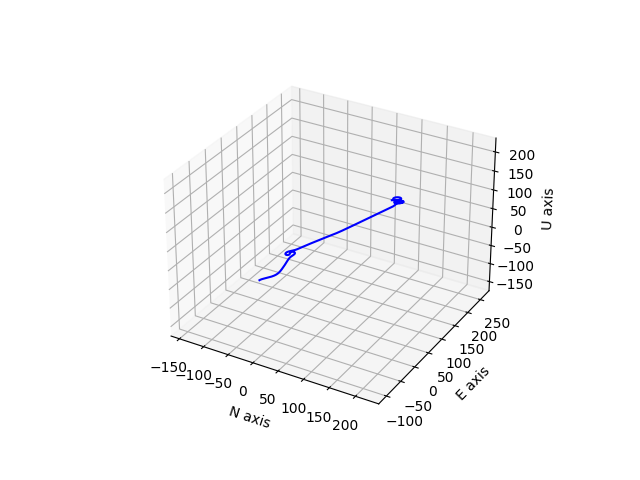
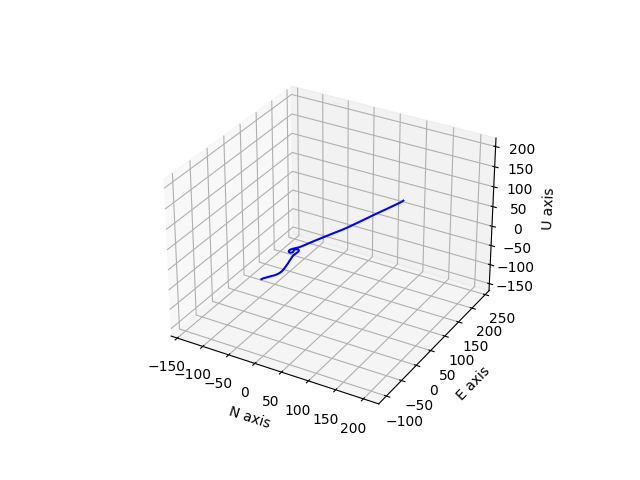
doc

diff --git a/src/solve_glider_opty_4d_trip.py b/src/solve_glider_opty_4d_trip.py
@@ -83,8 +83,9 @@ def obj_grad_cc(free, _p):
     return grad
 
 
-def test_cc(force_recompute=False, filename='/home/poine/tmp/glider_opty_4d_cc1.npz'):
-     atm = go_u.atm4()
+def test_cc(force_recompute=False, filename='/home/poine/tmp/glider_opty_4d_cc{}.npz', exp='0'):
+     if exp == '0': atm = go_u.atm4(strengths=(-0.6, -1.4, -0.8, -1.9))
+     else: atm = go_u.atm4(strengths=(-0.6, -1.4, -0.8, -0.6))
      _p = sgo4d.Planner(_obj_fun=obj_cc, _obj_grad=obj_grad_cc,
                         _atm=atm, e0=-100, n0=0, u0=25, psi0=0,
                         _v_constraint = (7., 15.),
@@ -93,14 +94,16 @@ def test_cc(force_recompute=False, filename='/home/poine/tmp/glider_opty_4d_cc1.
                         _u_constraint = (   23, 100),
                         duration=60, hz=20.)
      #sgo4d.compute_or_load(atm, _p, force_recompute, filename, tol=1e-5, max_iter=2000, initial_guess=None)
-     sgo4d.compute_or_load(atm, _p, force_recompute, filename, tol=1e-4, max_iter=1500, initial_guess=None)
-     go_u.plot_solution_chronogram(_p); plt.savefig('plots/glider_4d_cc1_chrono.png')
-     go_u.plot_solution_2D_en(_p); plt.savefig('plots/glider_4d_cc1_en.png')
-     go_u.plot_solution_3D(_p); plt.savefig('plots/glider_4d_cc1_3D.png')
+     sgo4d.compute_or_load(atm, _p, force_recompute, filename.format(exp), tol=1e-4, max_iter=1500, initial_guess=None)
+     dists_to_wp = np.linalg.norm(np.vstack((_p.sol_e, _p.sol_n)).T - [ccg_e, ccg_n], axis=1)
+     arrival_idx = np.argmax(dists_to_wp<10)
+     go_u.plot_solution_chronogram(_p, max_idx=arrival_idx); plt.savefig(f'plots/glider_4d_cc{exp}_chrono.png')
+     go_u.plot_solution_2D_en(_p, max_idx=arrival_idx); plt.savefig(f'plots/glider_4d_cc{exp}_en.png')
+     go_u.plot_solution_3D(_p, max_idx=arrival_idx); plt.savefig(f'plots/glider_4d_cc{exp}_3D.png')
      plt.show()
 
     
 if __name__ == '__main__':
-    test_trip(force_recompute='-force' in sys.argv, exp='2')
-    #test_cc(force_recompute='-force' in sys.argv)
+    #test_trip(force_recompute='-force' in sys.argv, exp='2')
+    test_cc(force_recompute='-force' in sys.argv, exp='1')
 

diff --git a/src/glider_opty_utils.py b/src/glider_opty_utils.py
@@ -100,8 +100,8 @@ def atm2():
 def atm3():
     centers, radiuses, strengths = ([25, -75, 0], [75, 100, 0], [0, 0, 0]), (25, 25, 25), (-0.6, -1.5, -0.9)
     return AtmosphereWharingtonArraySym(centers, radiuses, strengths)
-def atm4():
-    centers, radiuses, strengths = ([25, -75, 0], [75, 250, 0], [0, 0, 0], [75, 100, 0]), (25, 25, 25, 20), (-0.6, -1.4, -0.8, -0.6) # last was 1.9
+def atm4(strengths=(-0.6, -1.4, -0.8, -0.6)):
+    centers, radiuses = ([25, -75, 0], [75, 250, 0], [0, 0, 0], [75, 100, 0]), (25, 25, 25, 20)
     return AtmosphereWharingtonArraySym(centers, radiuses, strengths)
 
 

diff --git a/docs/index.md b/docs/index.md
@@ -117,10 +117,10 @@ The trajectory on figure 4 leans north to find tailwind rather than going straig
 
 If we add a constraint on altitude (forbiding us from hitting ground), we can find a trajectory that hunts thermals along the way.
 <figure>
-  <img src="https://raw.githubusercontent.com/poine/glider_experiments/master/docs/plots/glider_4d_cc_en.png" alt="" width="304" height="228">
-  <!--<img src="https://raw.githubusercontent.com/poine/glider_experiments/master/docs/plots/glider_4d_cc_nu.png" alt="" width="304" height="228">-->
-  <img src="https://raw.githubusercontent.com/poine/glider_experiments/master/docs/plots/glider_4d_cc_chrono.png" alt="" width="304" height="228">
-  <img src="https://raw.githubusercontent.com/poine/glider_experiments/master/docs/plots/glider_4d_cc_3D.png" alt="" width="304" height="228">
+  <img src="https://raw.githubusercontent.com/poine/glider_experiments/master/docs/plots/glider_4d_cc0_en.png" alt="" width="304" height="228">
+  <!--<img src="https://raw.githubusercontent.com/poine/glider_experiments/master/docs/plots/glider_4d_cc0_nu.png" alt="" width="304" height="228">-->
+  <img src="https://raw.githubusercontent.com/poine/glider_experiments/master/docs/plots/glider_4d_cc0_chrono.png" alt="" width="304" height="228">
+  <img src="https://raw.githubusercontent.com/poine/glider_experiments/master/docs/plots/glider_4d_cc0_3D.png" alt="" width="304" height="228">
   <figcaption>Fig5. Cross country</figcaption>
 </figure>
 
